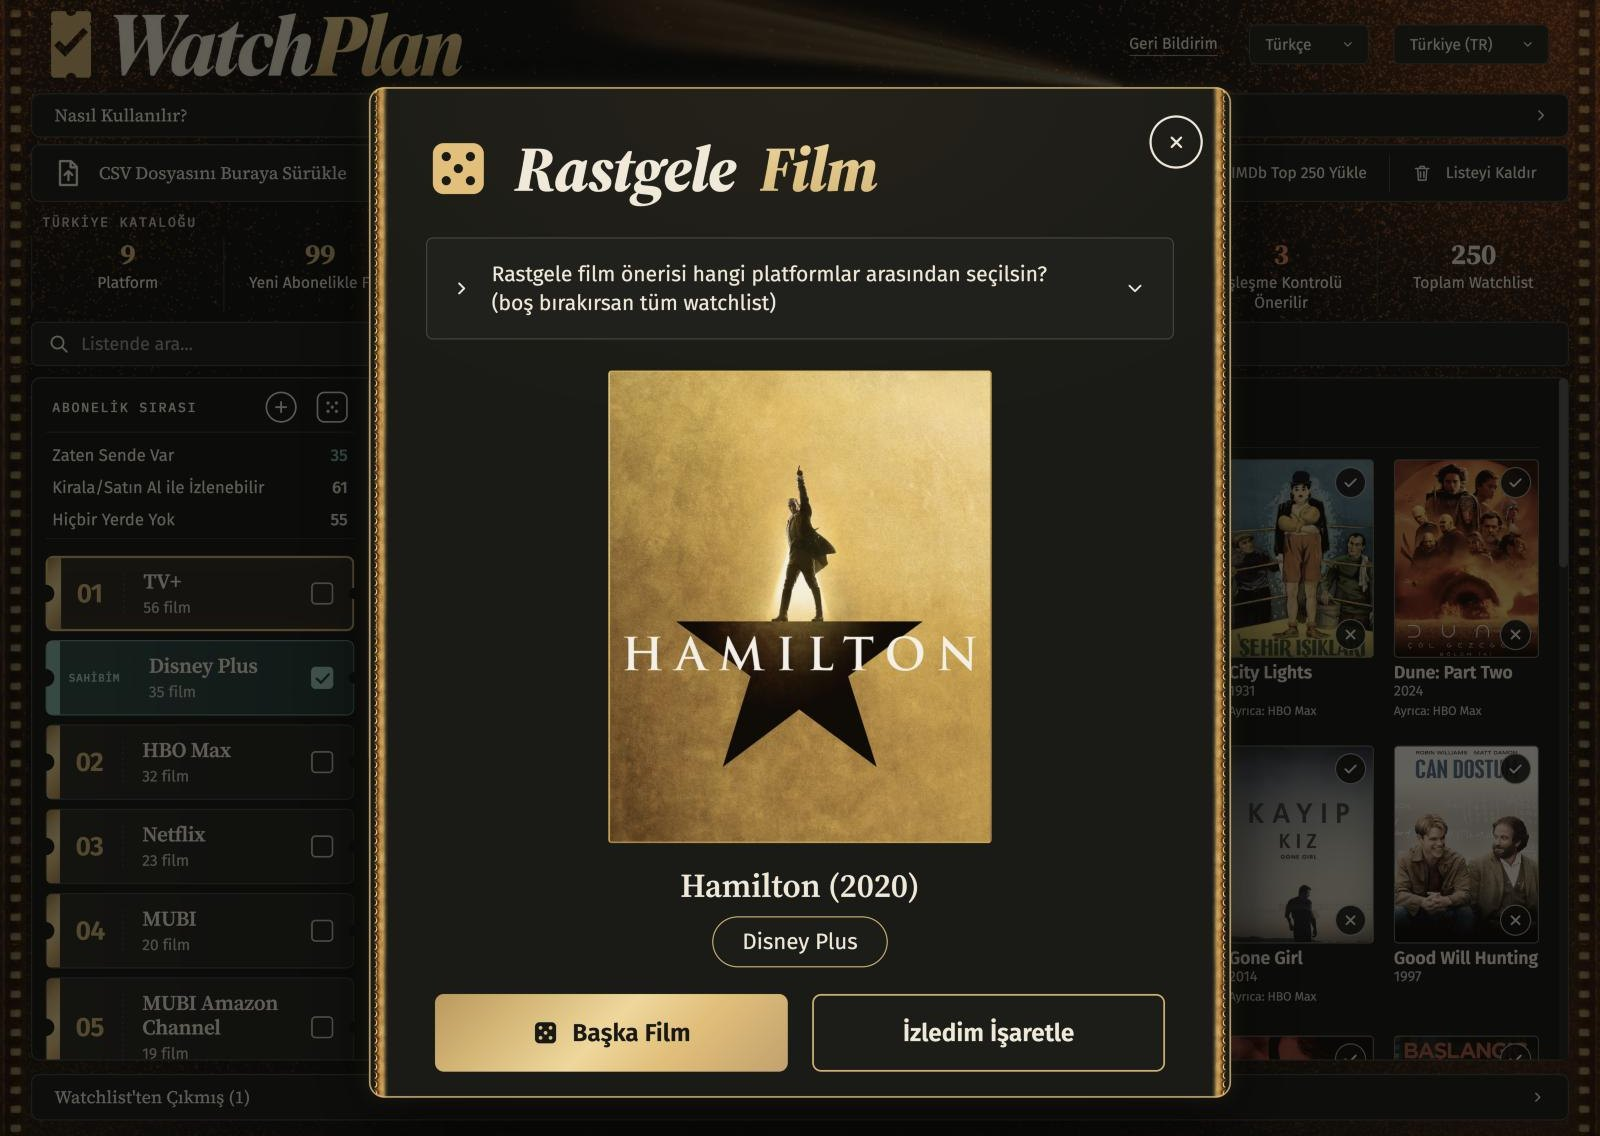
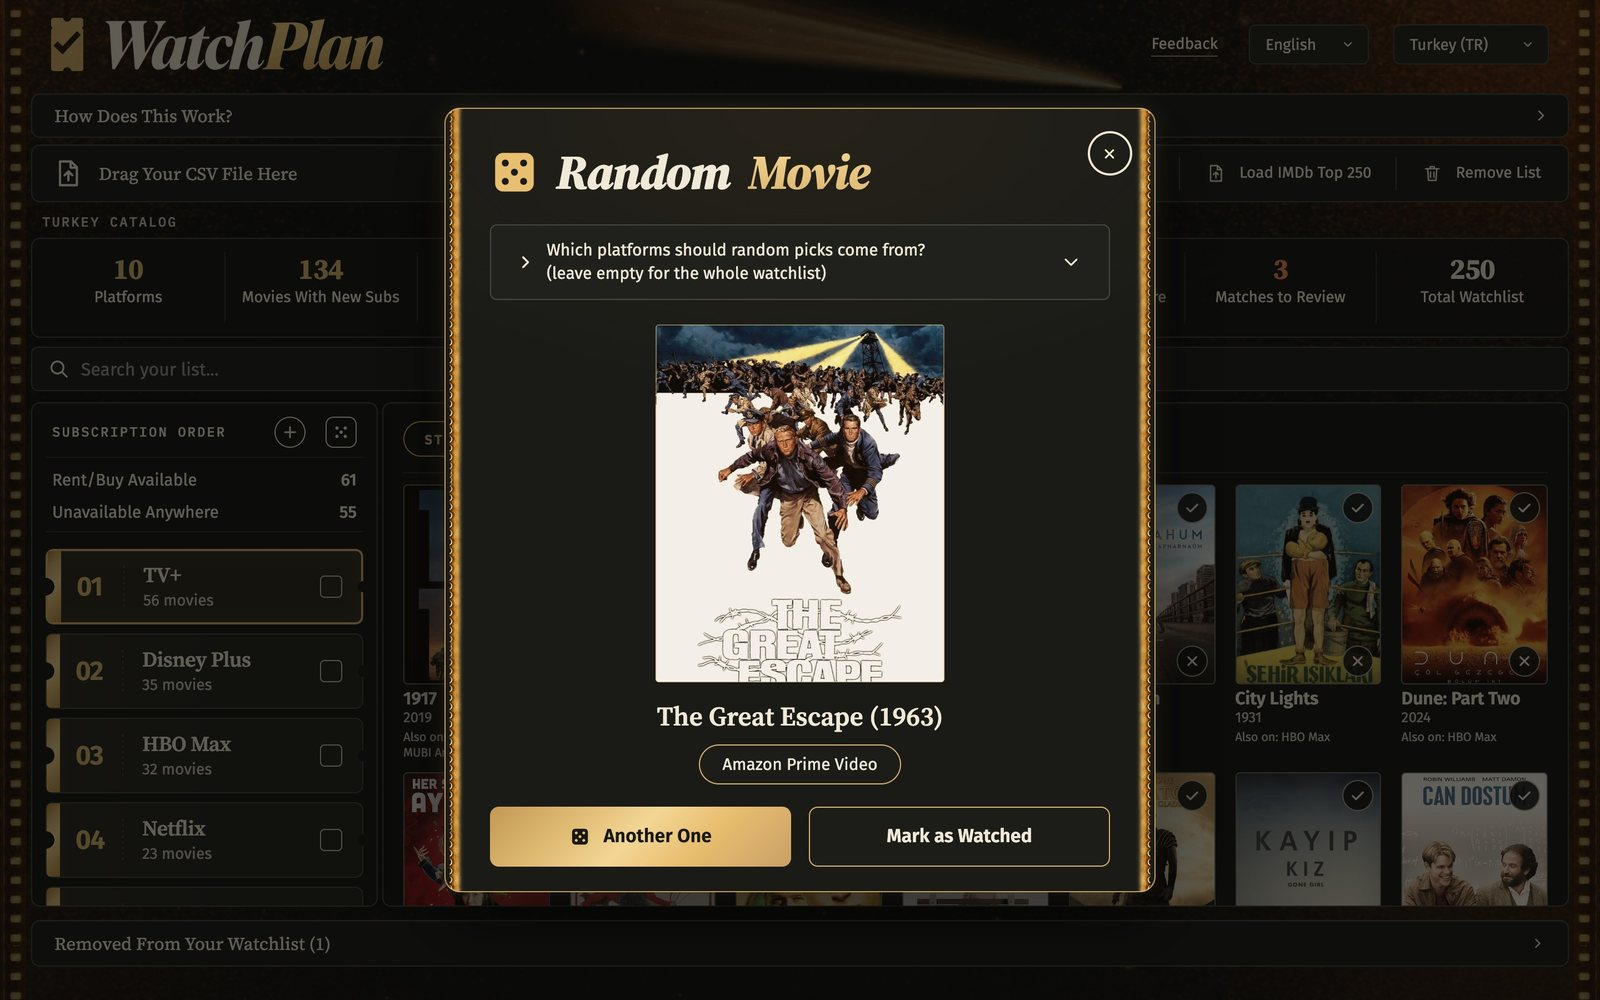
English README screenshots of the current design; stack phone sample buttons
Retakes the README screenshots with the English interface and the new
design (results, first visit, random pick, and phone first visit next to
phone results), and refers to the English panel name in the text.

Also fixes a regression: on phones the first-visit sample-list buttons
were squeezed side by side by the tablet grid rule; they stack again.

diff --git a/web/style.css b/web/style.css
@@ -2987,7 +2987,7 @@ button.top-link {
   .dropzone:not(.compact) .dropzone-icon { width: 44px; height: 54px; margin-bottom: 10px; }
   .dropzone:not(.compact) .dropzone-text { font-size: 23px; line-height: 28px; }
   .dropzone:not(.compact) .dropzone-sub { font-size: 15px; line-height: 21px; }
-  .upload-bar:not(:has(.dropzone.compact)) .csv-actions { margin-top: 18px; }
+  .upload-bar:not(:has(.dropzone.compact)) .csv-actions { grid-template-columns: 1fr; gap: 10px; margin-top: 18px; }
 
   /* telefonda zemin bos kalmasin: yanik kenarlar ve toz belirgin */
   body::before,

diff --git a/README.md b/README.md
@@ -17,7 +17,7 @@
 Upload the CSV that Letterboxd exports for your watchlist. WatchPlan looks every film up on JustWatch for your country and turns the result into a plan:
 
 - **A subscription order.** Each platform is a ticket, ordered by how many of your films it carries. Pick a ticket to see its films. The order never jumps around when you tick a service you already own.
-- **What you can already watch.** Tick the services you already pay for and their films move to *Zaten Sende Var* ("you already have these") and the plan is recalculated for the rest.
+- **What you can already watch.** Tick the services you already pay for and their films move to *Already Have* and the plan is recalculated for the rest.
 - **Rent or buy.** Films with no subscription option, with their rent/buy prices, cheapest first.
 - **Nowhere.** Films that aren't streaming anywhere in your country right now.
 
@@ -32,7 +32,7 @@ Mark films as watched, add or remove films without re-exporting from Letterboxd,
 | ![First visit](docs/screenshots/first-visit.jpg) | ![Random pick](docs/screenshots/random-pick.jpg) |
 
 <p align="center">
-  <img src="docs/screenshots/mobile.jpg" alt="Mobile" width="420">
+  <img src="docs/screenshots/mobile.jpg" alt="Mobile: first visit and results" width="560">
 </p>
 
 ## Features
